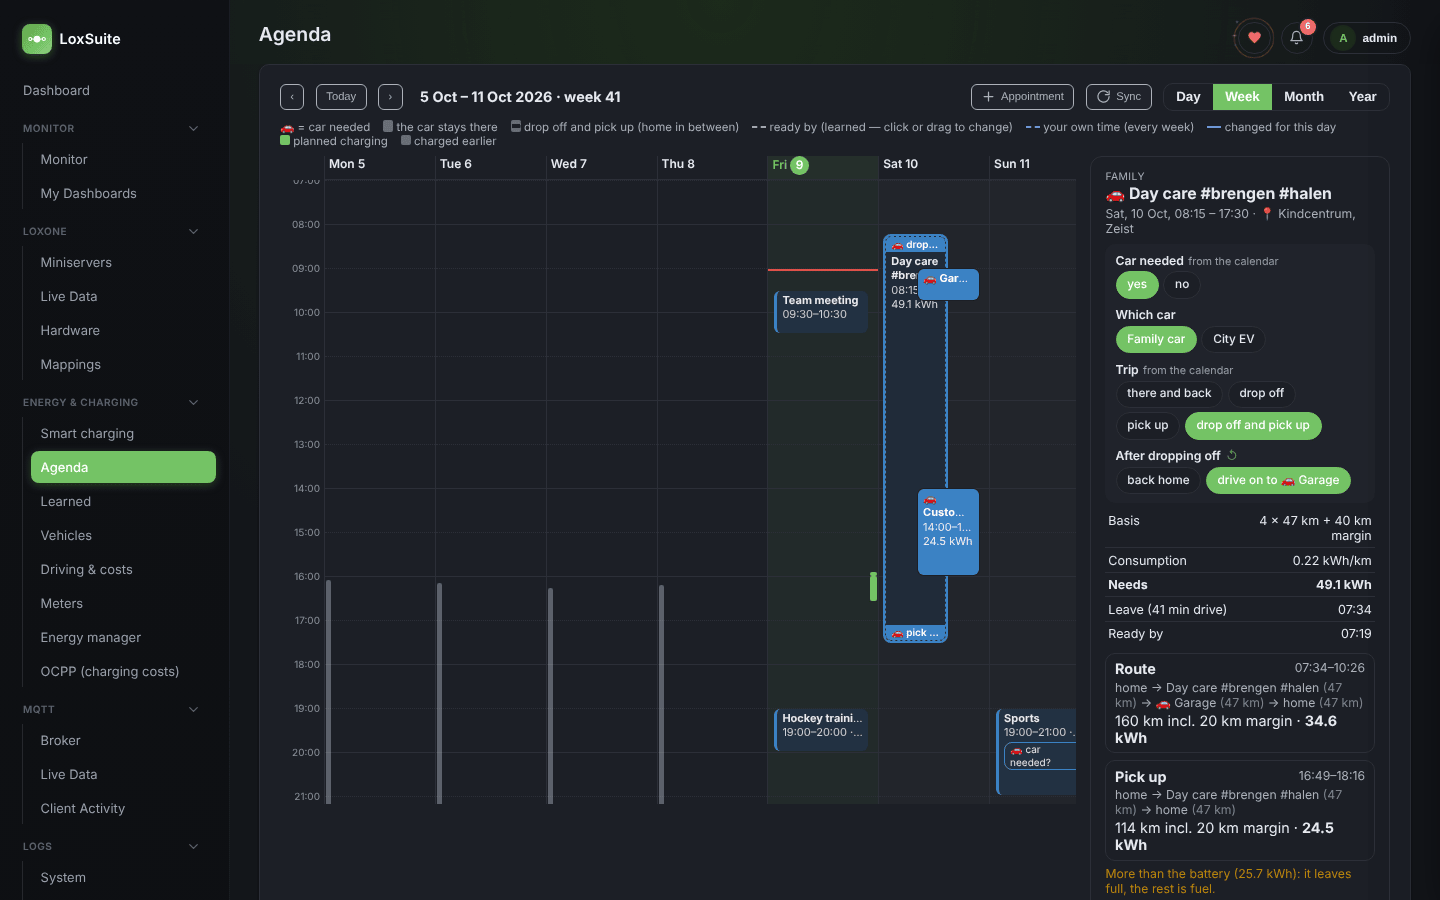
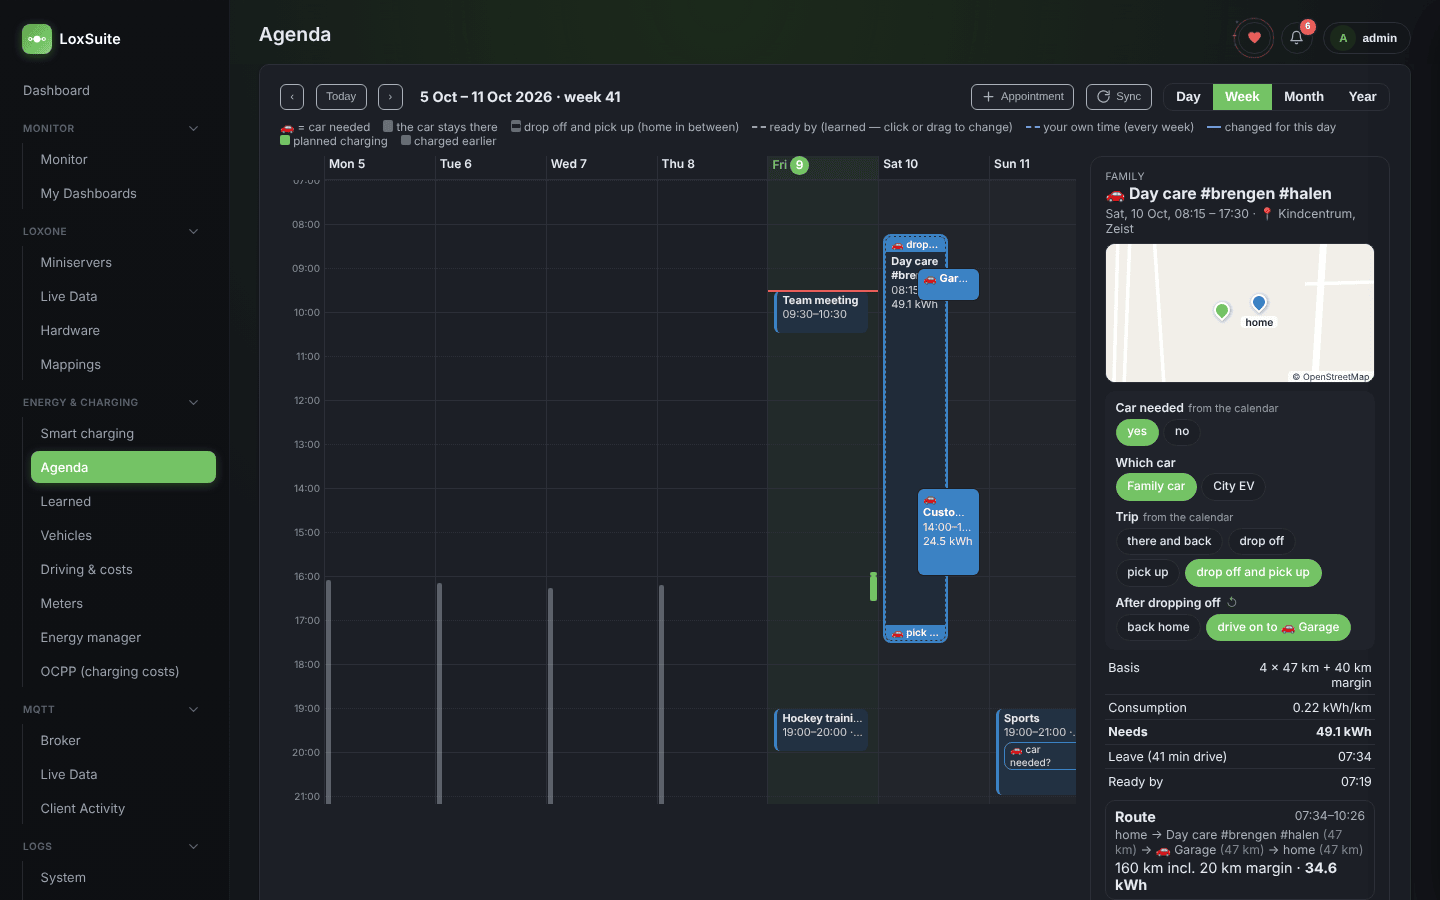
v0.56.0: small maps (an appointment with home, the agenda settings with where the car goes, the home location while you type it); Smart charging plans back what a trip that needs it all uses after the car is back

Changed region(s): [[0.75, 0.2489, 0.9688, 0.9956]]

diff --git a/gateway/test/regressionsEnergyUi.test.js b/gateway/test/regressionsEnergyUi.test.js
@@ -31,10 +31,21 @@ test('split: only the trip + reserve before leaving (Kodiaq at 4%, 8.8 kWh trip)
   assert.deepEqual(s.away, [[ready, ready + 2 * H]]);
 });
 
-test('split: none when almost nothing is left over, or the car is not back after the deadline', () => {
+test('split: a trip that needs it all — all of it before leaving, what it used back after it is back', () => {
   const ready = Date.parse('2026-10-06T04:30:00Z');
   const trip = { kwh: 20, backAtMs: ready + H, title: 'Long' };
-  assert.equal(planSplit({ needKwh: 10, batteryKwh: 25.7, soc: 40, readyAtMs: ready, trip }), null); // the trip needs it all
+  // v0.56: this was "no split", so the plan stopped at leaving and planned nothing for after the trip
+  const s = planSplit({ needKwh: 10, batteryKwh: 25.7, soc: 40, readyAtMs: ready, trip });
+  assert.equal(s.mustKwh, 10);
+  assert.equal(s.preMaxKwh, 0);
+  assert.ok(Math.abs(s.restKwh - 20) < 0.01, `rest ${s.restKwh}`);
+  // nothing left over before and nothing to make up after: one plan to the deadline, as before
+  assert.equal(planSplit({ needKwh: 0.5, batteryKwh: 25.7, soc: 90, reservePct: 0, readyAtMs: ready, trip: { ...trip, kwh: 0.3 } }), null);
+});
+
+test('split: none when the car is not back after the deadline, or its level is unknown', () => {
+  const ready = Date.parse('2026-10-06T04:30:00Z');
+  const trip = { kwh: 20, backAtMs: ready + H, title: 'Long' };
   assert.equal(planSplit({ needKwh: 25, batteryKwh: 25.7, soc: 4, readyAtMs: ready, trip: { ...trip, kwh: 5, backAtMs: ready - H } }), null);
   assert.equal(planSplit({ needKwh: 25, batteryKwh: 25.7, soc: null, readyAtMs: ready, trip }), null);
 });
@@ -243,4 +254,25 @@ test('a link to a card unfolds it, and a header row keeps its fold button at the
   const cc = fs.readFileSync(path.join(__dirname, '..', 'public', 'card-collapse.js'), 'utf8');
   assert.ok(/hashchange/.test(cc) && /targeted\(card\)/.test(cc), 'unfolds the card a link points to');
   assert.ok(/hd\.head\.appendChild\(btn\)/.test(cc), 'header rows get the chevron at the end of the row');
+});
+
+test('split plan: a trip that needs it all — what it uses is planned back after it is back (v0.56)', () => {
+  // nearly full (97%) before an 11.9 kWh drive at 08:28, back 10:22; the sun in the afternoon
+  const t0 = Date.parse('2026-10-09T04:00:00Z');
+  const slots = [];
+  for (let i = 0; i < 30; i++) {
+    const s = t0 + i * H;
+    const h = new Date(s).getUTCHours();
+    slots.push({ start: new Date(s).toISOString(), end: new Date(s + H).toISOString(), price: h >= 11 && h < 13 ? 0.21 : 0.35, pvKw: h >= 11 && h < 14 ? 5 : 0 });
+  }
+  const ready = Date.parse('2026-10-09T06:28:00Z');
+  const back = Date.parse('2026-10-09T08:22:00Z');
+  const split = planSplit({ needKwh: 0.8, batteryKwh: 26, soc: 97, reservePct: 0, readyAtMs: ready, trip: { kwh: 11.9, leaveMs: ready, backAtMs: back, title: 'Dentist' } });
+  assert.ok(split, 'a split, so the plan goes on after the trip');
+  const args = { nowMs: t0, readyAtMs: ready, needKwh: split.mustKwh, slots, mode: 'plan', minKw: 4.16, maxKw: 11, solarTrust: 'expected', priceCap: 0.55, insufficient: 'stop' };
+  const plan = withRest(makePlan(args), args, slots, split, ready);
+  const after = plan.split.restSlots.reduce((a, s) => a + s.kwh, 0);
+  assert.ok(Math.abs(after - split.restKwh) < 0.1, `after the trip ${after} of ${split.restKwh}`);
+  assert.ok(Math.abs(split.restKwh - 11.9) < 0.9, `what the trip uses (+ what was missing): ${split.restKwh}`);
+  assert.ok(plan.split.restSlots.every((s) => Date.parse(s.start) >= back), 'not while it is away');
 });

diff --git a/gateway/public/mini-map.js b/gateway/public/mini-map.js
@@ -1,5 +1,6 @@
-// A small street map (OpenStreetMap tiles, no satellite) with a pin per car. No library: the tiles
-// around the point are laid out as plain images. lsMiniMap(el, [{ lat, lon, label }], { height })
+// A small street map (OpenStreetMap tiles, no satellite) with a pin per car (or address). No library:
+// the tiles around the point are laid out as plain images. lsMiniMap(el, [{ lat, lon, label, title,
+// home }], { height }) — label: shown under the pin; title: only on hover; home: a pin in another colour.
 // One point: zoom 15. Several: the closest zoom that shows them all. Click opens openstreetmap.org.
 (function () {
   var TILE = 256;
@@ -37,7 +38,7 @@
     }
     points.forEach(function (p, i) {
       var x = Math.round(pts[i].x - left), y = Math.round(pts[i].y - top);
-      html += '<div class="mini-map-pin" style="left:' + x + 'px; top:' + y + 'px;" title="' + esc(p.label) + '"></div>' +
+      html += '<div class="mini-map-pin' + (p.home ? ' mini-map-home' : '') + '" style="left:' + x + 'px; top:' + y + 'px;" title="' + esc(p.title || p.label) + '"></div>' +
         (p.label ? '<div class="mini-map-label" style="left:' + x + 'px; top:' + (y + 6) + 'px;">' + esc(p.label) + '</div>' : '');
     });
     var c = points.length === 1 ? points[0] : { lat: points.reduce(function (a, p) { return a + p.lat; }, 0) / points.length, lon: points.reduce(function (a, p) { return a + p.lon; }, 0) / points.length };

diff --git a/gateway/src/planner.js b/gateway/src/planner.js
@@ -654,11 +654,15 @@ function planSplit({ needKwh, batteryKwh, soc, reservePct = 15, readyAtMs, trip,
   const energyNow = Number.isFinite(energyNowKwh) ? energyNowKwh : batteryKwh * soc / 100;
   const reserveKwh = batteryKwh * (Number(reservePct) || 0) / 100;
   const must = Math.max(0, Math.min(needKwh, trip.kwh + reserveKwh - energyNow));
-  if (!(needKwh - must > 1) || !(trip.backAtMs > readyAtMs)) return null;
+  if (!(trip.backAtMs > readyAtMs)) return null;
   const fullKwh = energyNow + needKwh; // the level the car charges to (its limit)
   const afterTrip = Math.max(0, energyNow + must - trip.kwh);
   const target = Number.isFinite(restTargetKwh) ? Math.min(fullKwh, Math.max(0, restTargetKwh)) : fullKwh;
   const rest = Math.max(0, target - afterTrip);
+  // nothing left over before leaving and nothing to make up after it is back: one plan to the deadline.
+  // A trip that needs it all still gets what it used back after it is back (v0.56: before, the plan
+  // then stopped at leaving — a longer route showed less charging that afternoon than a shorter one)
+  if (!(needKwh - must > 1) && !(rest > 1)) return null;
   return {
     mustKwh: round3(must), restKwh: round3(rest), preMaxKwh: round3(needKwh - must), energyAfterKwh: round3(afterTrip), fullKwh: round3(fullKwh),
     backAtMs: trip.backAtMs, tripKwh: round3(trip.kwh), reserveKwh: round3(reserveKwh),

diff --git a/gateway/src/routes/settingsEnergy.js b/gateway/src/routes/settingsEnergy.js
@@ -27,6 +27,13 @@ router.get('/', asyncHandler(async (req, res) => {
     priceStatus: await settings.get('prices_status', null), solarStatus: await settings.get('solar_status', null),
     fuel: await fuelPrice.currentFuelPrice(), fuelTypes: fuelPrice.FUEL_TYPES, spo: await prices.findSpotOptimizer().catch(() => null),
     calendars: await agenda.listCalendars(), vehicles,
+    // the agenda settings' map: the appointments with the car in the next two weeks (once found)
+    agendaPins: await agenda.items(new Date().toISOString(), new Date(Date.now() + 14 * 86400000).toISOString())
+      .then((list) => {
+        const seen = new Set();
+        return list.filter((i) => i.needsCar && Number.isFinite(i.lat) && Number.isFinite(i.lon)).filter((i) => { const k = `${i.lat.toFixed(4)},${i.lon.toFixed(4)}`; if (seen.has(k)) return false; seen.add(k); return true; })
+          .slice(0, 12).map((i) => ({ lat: i.lat, lon: i.lon, title: `${i.title}${i.location ? ` · ${i.location}` : ''}` }));
+      }).catch(() => []),
     climateRuns: await require('../carClimate').recent(8),
     skodaCars: vehicles.some((v) => vehiclesMod.sourceKind(v) === 'skoda'),
     remCfg: await require('../reminders').getConfig().catch(() => ({})), chargingSaved: req.query.saved || null,

diff --git a/gateway/src/routes/agenda.js b/gateway/src/routes/agenda.js
@@ -83,7 +83,8 @@ router.get('/items.json', asyncHandler(async (req, res) => {
   const vehicleList = (await db.prepare('SELECT id, name FROM vehicles WHERE enabled = 1 ORDER BY id').all().catch(() => [])).map((v) => ({ id: v.id, name: v.name }));
   // the calendars a new appointment can go into (an ICS link only reads)
   const calendars = (await agenda.listCalendars()).filter((c) => c.enabled !== 0).map((c) => ({ id: c.id, name: c.name, color: c.color, kind: c.kind, writable: c.writable }));
-  res.json({ items, tours, learned, plan: plan ? plan.slots : [], sessions, vehicles: vehicleList, calendars, routeClasses: agenda.ROUTE_CLASSES, climate: { mode: acfg.climate_mode, leadMin: carClimate.clampLead(acfg.climate_lead_min) } });
+  const site = await settings.get('site', { lat: null, lon: null });
+  res.json({ items, tours, learned, plan: plan ? plan.slots : [], sessions, vehicles: vehicleList, calendars, home: { lat: site.lat ?? null, lon: site.lon ?? null }, routeClasses: agenda.ROUTE_CLASSES, climate: { mode: acfg.climate_mode, leadMin: carClimate.clampLead(acfg.climate_lead_min) } });
 }));
 
 // One or more ICS links (one per line). With several, or without a name, each calendar is named

diff --git a/gateway/public/style.css b/gateway/public/style.css
@@ -4768,6 +4768,7 @@ details > summary + p.hint { margin-top: 0.5rem; }
   position: absolute; z-index: 2; width: 16px; height: 16px; margin: -16px 0 0 -8px; border-radius: 50% 50% 50% 0;
   background: var(--accent, #5CA83F); border: 2px solid #fff; transform: rotate(-45deg); box-shadow: 0 1px 4px rgba(0,0,0,.35);
 }
+.mini-map-pin.mini-map-home { background: #3b82c4; }
 .mini-map-label { position: absolute; z-index: 2; transform: translateX(-50%); font-size: 0.72rem; font-weight: 600; color: #222; background: rgba(255,255,255,.85); padding: 0 0.3rem; border-radius: 4px; white-space: nowrap; }
 .mini-map-attr { position: absolute; right: 0; bottom: 0; z-index: 4; font-size: 0.62rem; color: #333; background: rgba(255,255,255,.8); padding: 0 0.3rem; border-top-left-radius: 4px; text-decoration: none; }
 

diff --git a/README.md b/README.md
@@ -7,7 +7,7 @@
      since this repo only publishes git tags, not GitHub Releases) — bump it alongside CHANGELOG.md
      and package.json on every version release. -->
 [![Latest version](https://img.shields.io/github/v/tag/DaveRutten/LoxSuite?sort=semver&label=version)](https://github.com/DaveRutten/LoxSuite/tags)
-[![Commits since latest tag](https://img.shields.io/github/commits-since/DaveRutten/LoxSuite/v0.55.0-alpha.1)](https://github.com/DaveRutten/LoxSuite/commits/main)
+[![Commits since latest tag](https://img.shields.io/github/commits-since/DaveRutten/LoxSuite/v0.56.0-alpha.1)](https://github.com/DaveRutten/LoxSuite/commits/main)
 [![Open issues](https://img.shields.io/github/issues/DaveRutten/LoxSuite)](https://github.com/DaveRutten/LoxSuite/issues)
 [![License](https://img.shields.io/github/license/DaveRutten/LoxSuite)](LICENSE)
 
@@ -799,7 +799,9 @@ holds a marker (🚗 / #auto by default) or when you switch *Car needed* on in L
 Hints like `🚗 120 km`, `🚗 30 kWh` or `🚗 full` are understood. For car appointments with an address LoxSuite
 looks up the driving distance and time from home (OpenStreetMap Nominatim + OSRM, Valhalla for a route without
 ferries / toll roads / motorways; only those addresses are sent, results cached), adds the margin (default 20 km) and turns it into kWh; the planner makes sure the car is ready
-before you have to leave. **Route options**: by default the shortest route, or avoid ferries, toll roads and/or
+before you have to leave. An appointment's details show a **small map** with the address and home (OpenStreetMap; a
+click opens it larger), the agenda settings a map of home and where the car goes in the next two weeks, and the
+home location in the settings its own map while you type it. **Route options**: by default the shortest route, or avoid ferries, toll roads and/or
 motorways for every address (agenda settings); where an appointment's route takes one of them (or you avoid it),
 the appointment shows a chip like *without the ferry* to choose otherwise for that address — on or off, ↺ back to
 the default. With **more than one car** in LoxSuite an appointment has a *Which car* choice (default: the

diff --git a/CHANGELOG.md b/CHANGELOG.md
@@ -2,6 +2,23 @@
 
 All notable changes to this project are documented in this file.
 
+## [0.56.0-alpha.1] - 2026-10-09
+
+### Added
+- **Small maps** (asked: "a small picture of the location (maps) would be nice — here", in an appointment's details):
+  - **An appointment's details**: a small street map under the time and address, with the address and home (as
+    soon as the address has been found); a click opens OpenStreetMap.
+  - **Agenda settings**: home and where the car goes in the next two weeks (the appointments with the car whose
+    address was found; their name on hover).
+  - **Home & solar forecast**: home on a map under its latitude / longitude, redrawn while you type them.
+  - OpenStreetMap tiles like the car map on the vehicle pages; home is a blue pin.
+
+### Fixed
+- **Smart charging after a trip that needs it all**: when the battery was (nearly) full before leaving and the trip
+  needed what was in it, the plan stopped at leaving and planned nothing for after the car is back — so a longer
+  route (without the ferry) could show less charging that afternoon than a shorter one. What the trip uses is now
+  planned back after it is back, in the cheapest or sunniest hours, like the rest of a split plan.
+
 ## [0.55.0-alpha.1] - 2026-10-09
 
 ### Added
